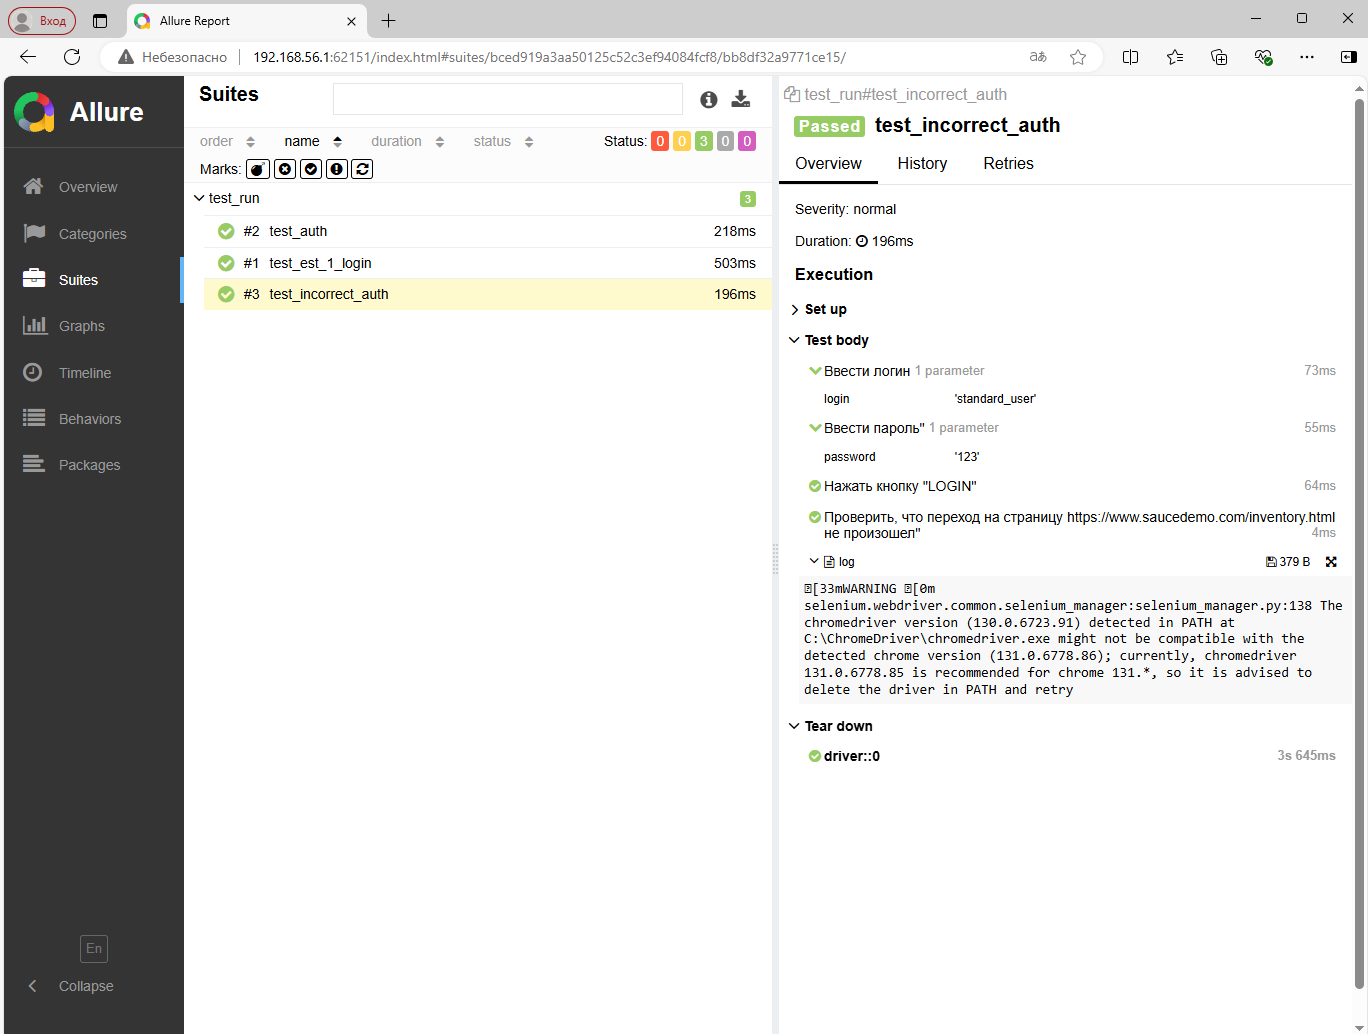
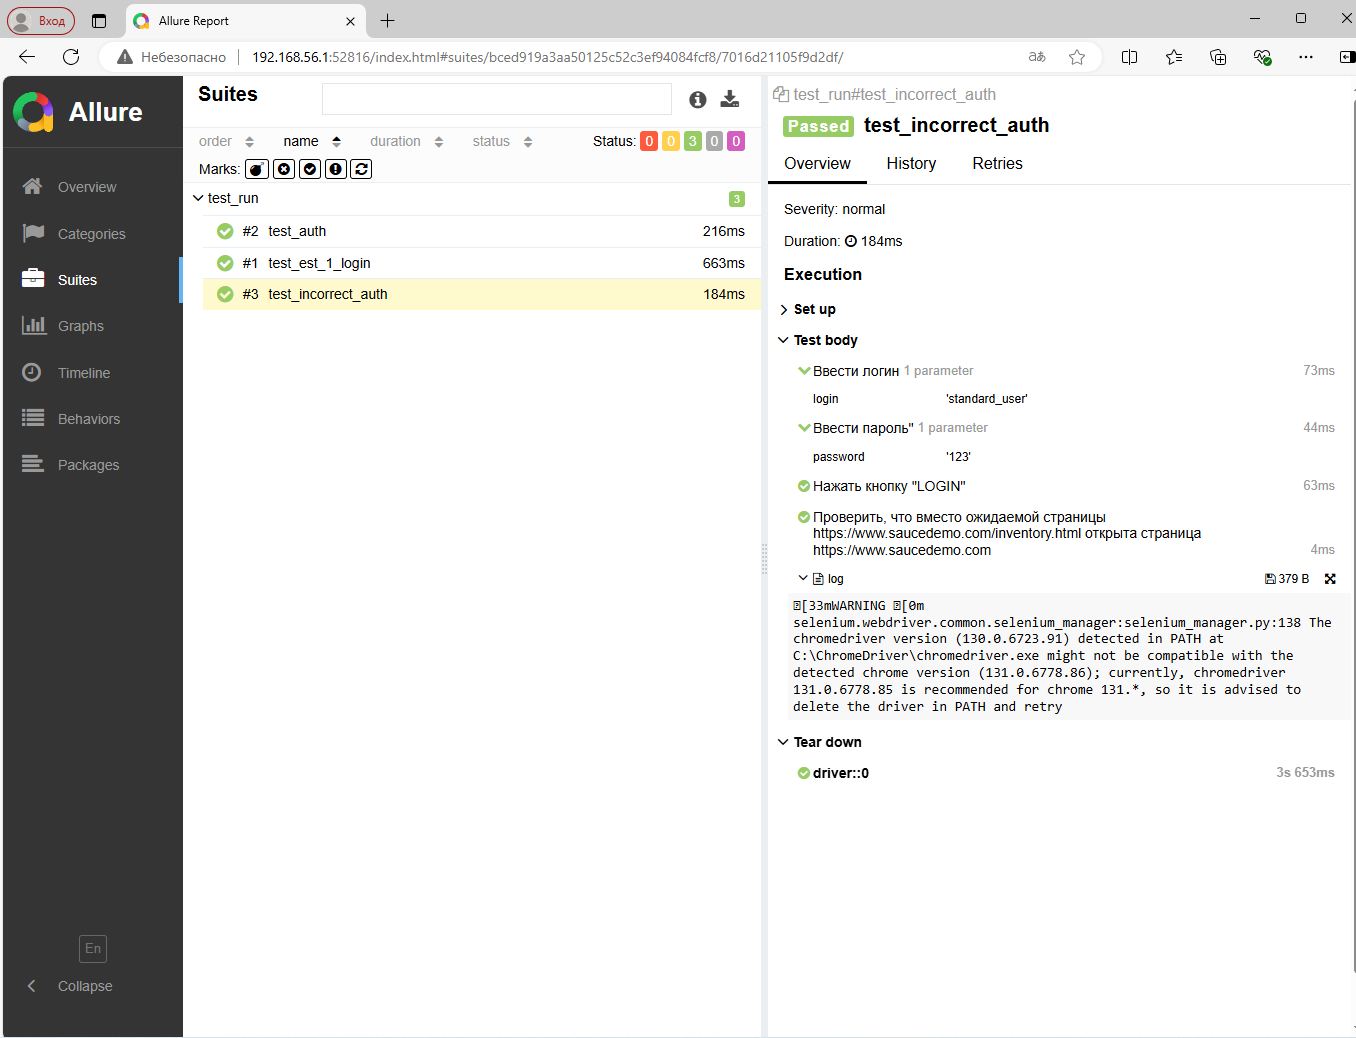
исправлены аннотации

diff --git a/test_run.py b/test_run.py
@@ -22,7 +22,7 @@ def test_auth(driver):
     auth_page.input_password('secret_sauce')
     auth_page.login_button_click()
     with allure.step(r'Проверить, что открыта страница '
-                 r'"https://www.saucedemo.com/inventory.html"'):
+                 r'https://www.saucedemo.com/inventory.html'):
         assert InventoryPage(driver).get_current_url() == InventoryPage(driver).page_url, "Нужная страница не открыта"
 
 
@@ -31,6 +31,7 @@ def test_incorrect_auth(driver):
     auth_page.input_login('standard_user')
     auth_page.input_password('123')
     auth_page.login_button_click()
-    with allure.step(r'Проверить, что переход на страницу '
-                 r'https://www.saucedemo.com/inventory.html не произошел"'):
+    with allure.step(r'Проверить, что вместо ожидаемой страницы '
+                     r'https://www.saucedemo.com/inventory.html открыта '
+                     r'страница https://www.saucedemo.com'):
         assert InventoryPage(driver).get_current_url() != InventoryPage(driver).page_url, "Url 2-х страниц совпали"
